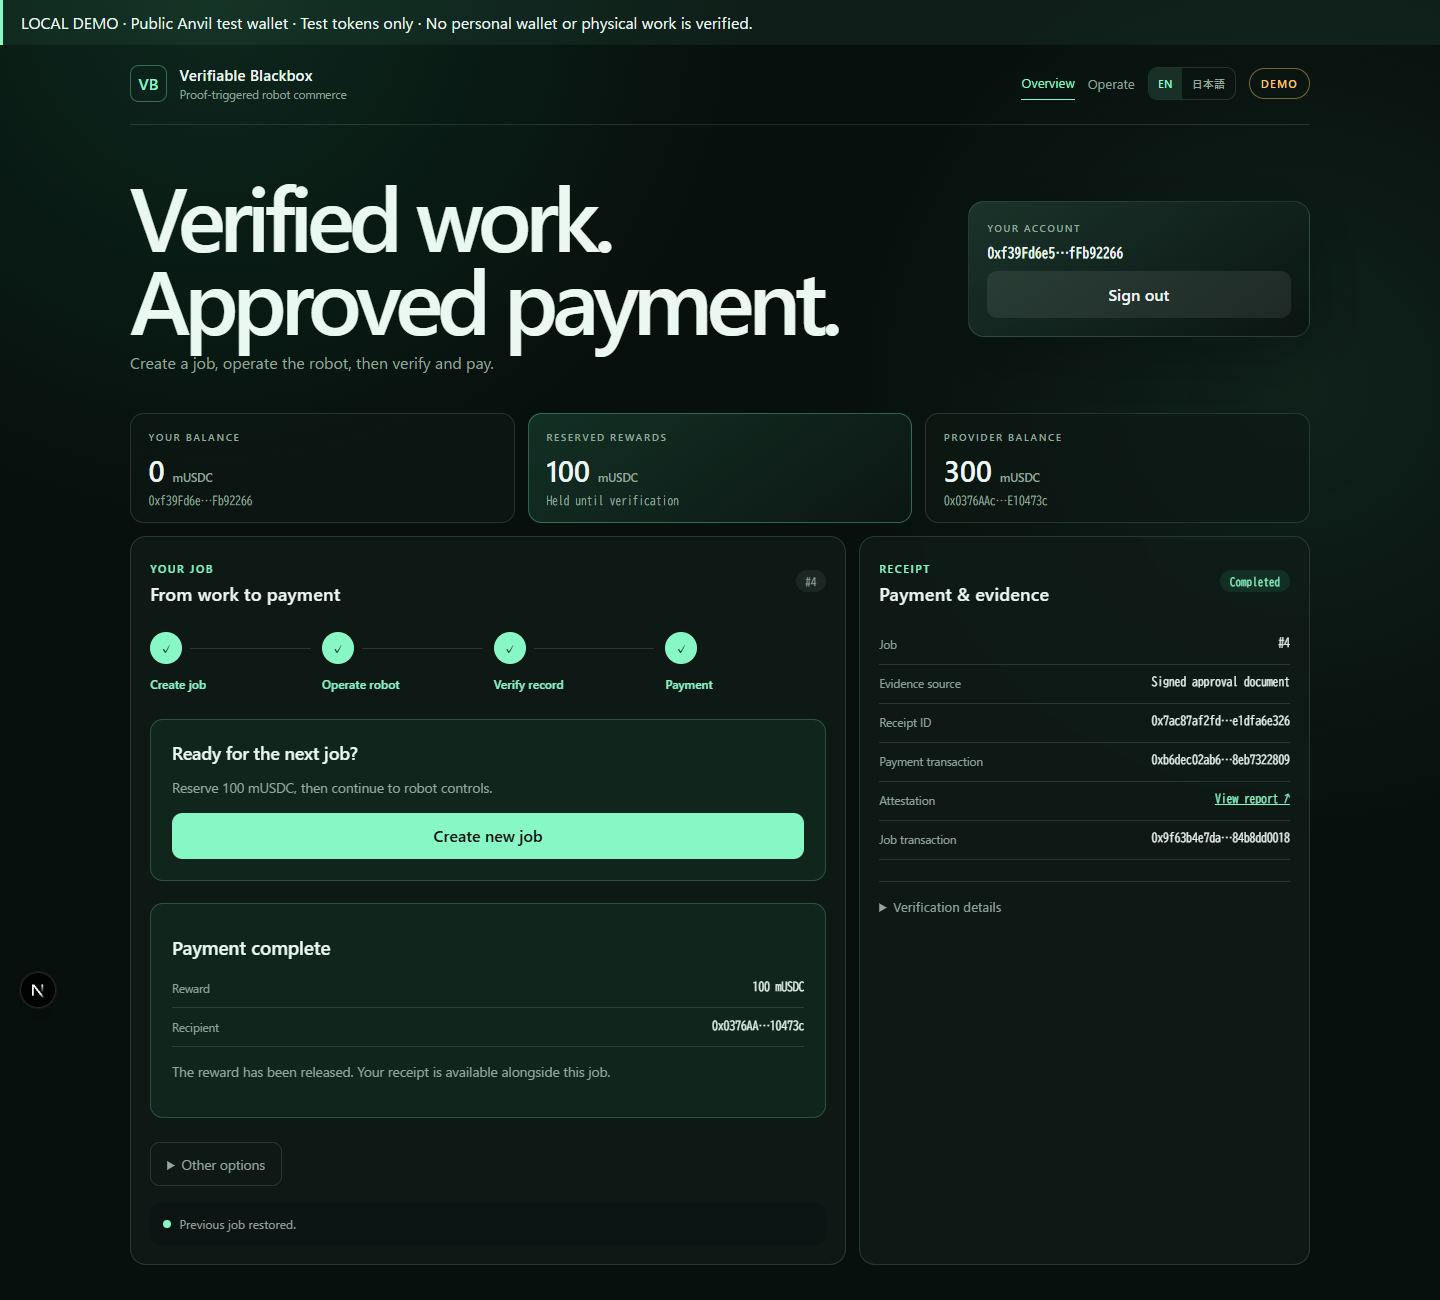
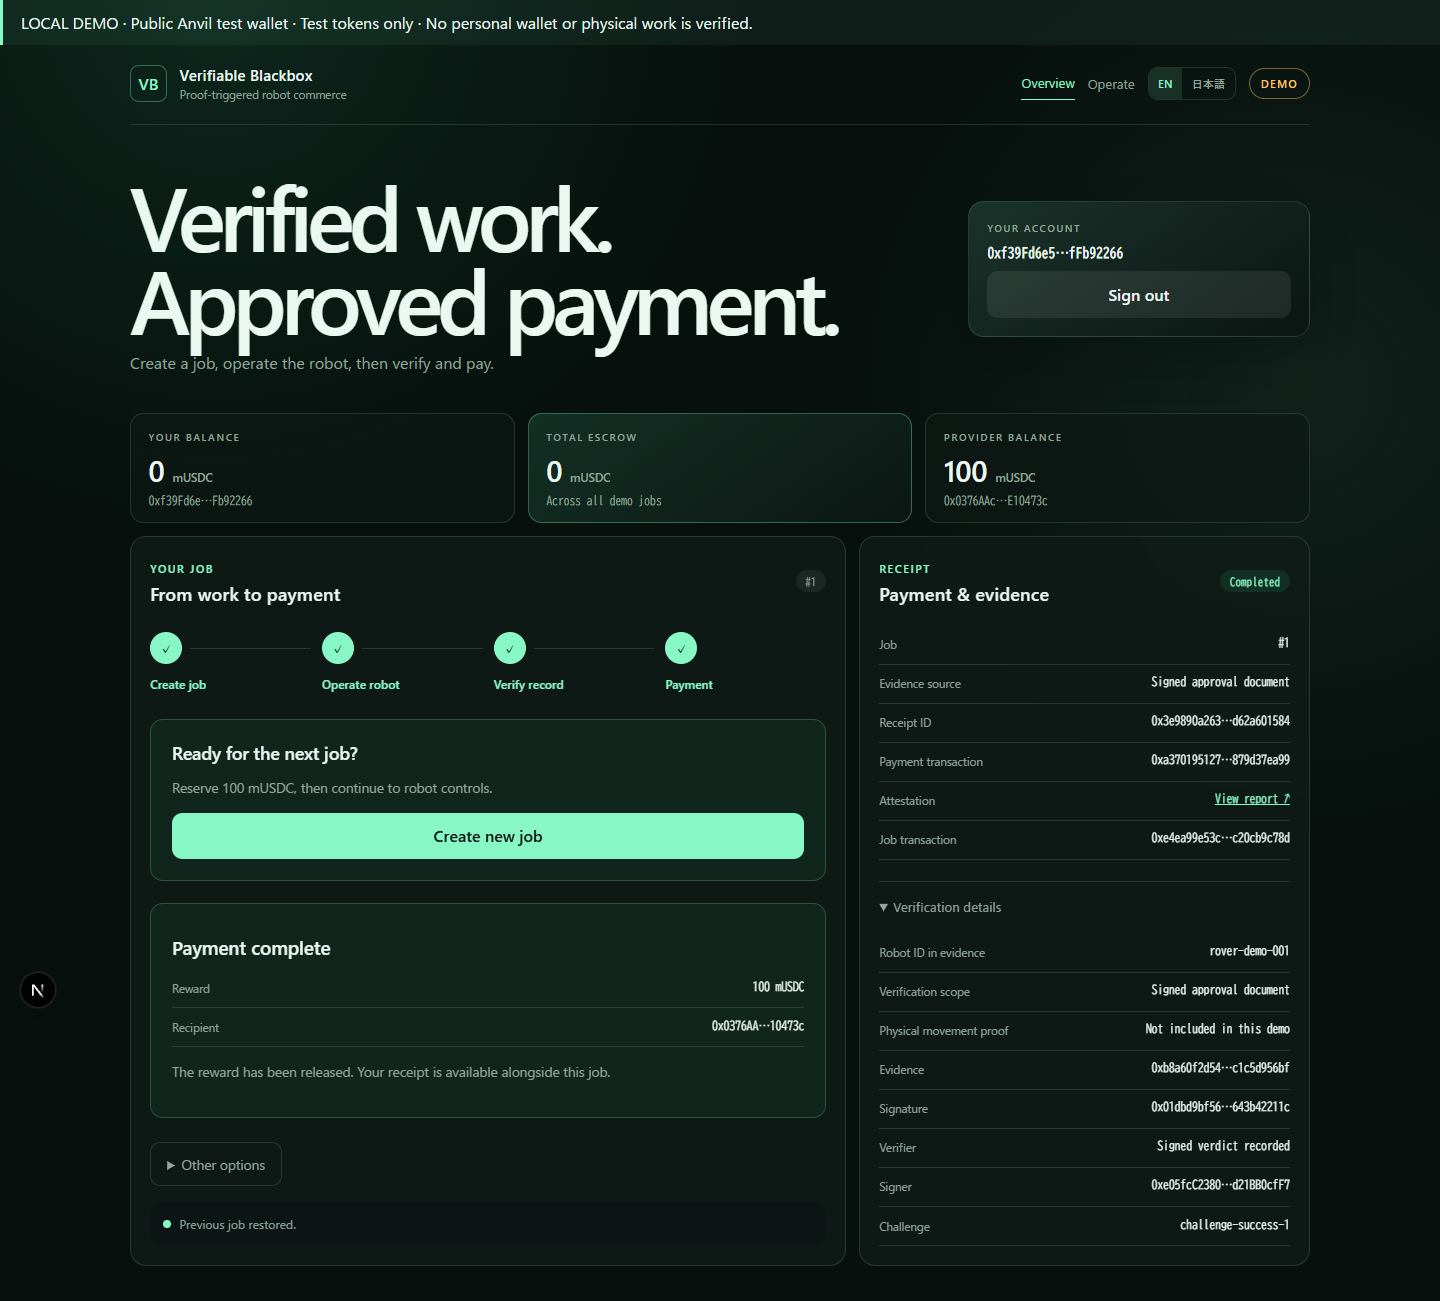
fix: make validation startup reliable across clean checkouts

diff --git a/app_Verifiable_Blackbox/apps/web/next.config.ts b/app_Verifiable_Blackbox/apps/web/next.config.ts
@@ -1,6 +1,8 @@
 import type {NextConfig} from "next";
+import {fileURLToPath} from "node:url";
 
 const nextConfig: NextConfig = {
+  turbopack: {root: fileURLToPath(new URL("../..", import.meta.url))},
   allowedDevOrigins: ["127.0.0.1"],
   typedRoutes: true,
 };

diff --git a/app_Verifiable_Blackbox/TASKS.md b/app_Verifiable_Blackbox/TASKS.md
@@ -176,4 +176,4 @@
 - Device署名をEvaluatorの支払い条件へ組み込む設計。
 - Secure Elementによる鍵保護、本番資金を扱う決済。
 
-これらはT01〜T12の対象外とし、個別に設計する。最初に着手するのは **T01: 再現可能な開発環境**。
+これらはT01〜T12の対象外とし、個別に設計する。
